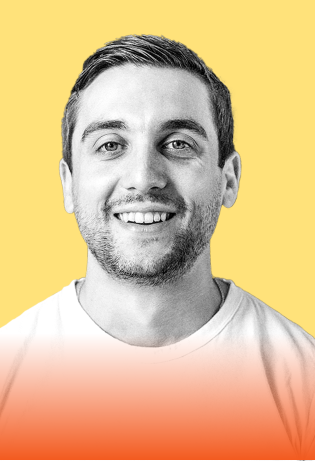
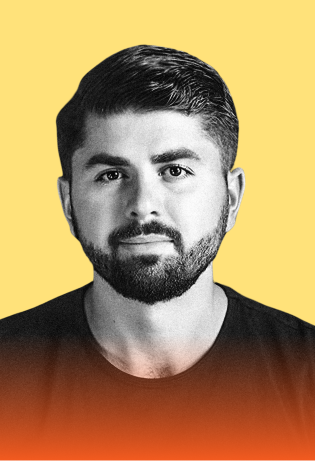
feat: 8 sessions with correct Figma content, pricing value table, newsletters proof section
- All 8 sessions with correct titles, descriptions, and matched thumbnails
- Correct session images from Figma exports
- Pricing section: value breakdown table, payment plan, founding member rate
- New "Our Newsletters — Proof" section between Instructors and Pricing
- Instructor headshots: square icon containers instead of circles
- Hero headshots: proper B&W with gradient backgrounds
- Session titles: regular weight serif, orange arrow on "You leave with"

diff --git a/src/App.tsx b/src/App.tsx
@@ -179,18 +179,20 @@ function RightForYou() {
 /* ─── Section 4: Sessions / What You'll Build ─── */
 function Sessions() {
   const sessions = [
-    { num: 1, img: 'session-1.png', title: 'Category Newsletter Positioning', desc: "Pick a category, name it, and claim it before you write a word. You'll nail the credibility angle that makes readers say 'this is exactly what I've been looking for.'", skill: 'Your newsletter name, subtitle, and a positioning statement that owns your niche.' },
-    { num: 2, img: 'session-2.png', title: 'Irresistible Newsletter Offer Stack', desc: "Every subscriber needs a reason to sign up and a reason to pay. The offer stack you build here gives them both: instant free bonuses, a paid upgrade path, and a subscriber value ladder that starts converting immediately.", skill: 'A complete free and paid offer stack live on your Substack.' },
-    { num: 3, img: 'session-3.png', title: 'Substack Tech Stack', desc: "Set up Substack for revenue from the start. Paid tiers, your About page, and the automated welcome sequence that turns every new free subscriber into a warm lead before your next post lands.", skill: 'A fully configured Substack, paid setup live, and your welcome sequence running automatically.' },
-    { num: 4, img: 'session-5.png', title: 'Newsletter Conversion Secrets', desc: "Free subscribers don't convert on their own. In this session, we'll give you the copywriting and paywall strategy that makes going paid feel like the obvious next move for your readers.", skill: 'A paywall strategy and paid subscriber plan ready before your first upgrade arrives.' },
-    { num: 5, img: 'session-7.png', title: 'Substack Notes Traffic Strategy', desc: "Notes is the fastest organic growth lever on Substack. Build a strategy that pulls new subscribers from Substack's own discovery feed every week.", skill: 'A Notes traffic strategy and a 30-day content calendar ready to publish.' },
-    { num: 6, img: 'session-6.png', title: 'Substack Monetization Mastery', desc: "Map every revenue lever your newsletter has: paid tiers, a founding member window, and product launches sold to a list you own. Then build a Claude Cowork .Skill trained on your writing so the newsletter that used to take 3 hours takes 45 minutes.", skill: 'A monetization plan and a custom AI writing tool trained on your voice.' },
+    { num: 1, img: 'session-1.png', title: 'Category Newsletter Positioning', desc: "The most important decision you'll make. Establish your credibility anchor, define your recurring offer, and nail your Category Title and Actionable Subtitle.", skill: 'Your newsletter name, positioning, and 1-liner — done.' },
+    { num: 2, img: 'session-2.png', title: 'Irresistible Newsletter Offer Stack', desc: "A newsletter isn't just content — it's an offer. Publishing cadences, Instant Bonus Unlocks, and your About Page written and published live.", skill: 'A fully written, live About Page and a subscriber offer stack that converts.' },
+    { num: 3, img: 'session-3.png', title: 'Writing Your Onboarding Sequence for Free Readers', desc: "A multi-email sequence that sells readers on your newsletter, introduces you, delivers any promised bonuses, and drives them toward your paid offer — written and live.", skill: 'An automated onboarding sequence running for every new free subscriber.' },
+    { num: 4, img: 'session-4.png', title: 'Creating a Bonus Educational Email Course for Paid Readers', desc: "The fastest way to reduce churn is to immediately reward the upgrade. A Paid Educational Email Course that makes paid subscribers feel like they made the right decision from Day 1.", skill: 'A live paid subscriber onboarding sequence that increases retention.' },
+    { num: 5, img: 'session-5.png', title: 'Newsletter Copywriting Secrets', desc: "The Cliffhanger Paywall, the Bonus Resource Paywall, and the free/paid cadence that maximizes reader engagement and paid conversion simultaneously.", skill: 'A repeatable content strategy for your ongoing newsletter.' },
+    { num: 6, img: 'session-6.png', title: 'Newsletter Writing With Claude Cowork', desc: "Build a newsletter writing .Skill inside Claude Cowork — trained on your voice, your style, and your newsletter's unique positioning. Write better, faster, without sounding like AI.", skill: 'A fully configured, personalized newsletter writing .Skill.' },
+    { num: 7, img: 'session-7.png', title: 'Building Your Notes Traffic Strategy', desc: "Substack Notes is the most underused growth lever on the platform. Trending formats, traffic strategies, and your first 30 days of Notes content — built and scheduled.", skill: 'A 30-day Notes content calendar and your traffic strategy mapped.' },
+    { num: 8, img: 'session-8.png', title: 'Substack Monetization Mastery', desc: "How free newsletters make money. What separates free from paid. How to price your subscription. Monthly vs. yearly vs. Founding Member — and the advanced strategies behind 6-figure newsletter launches.", skill: 'Your full monetization architecture configured and live.' },
   ]
 
   return (
     <section className="bg-cream py-20 px-6">
       <div className="max-w-page mx-auto">
-        <p className="font-sans text-[12px] font-bold text-orange uppercase tracking-[0.15em] mb-3">The 6 Sessions</p>
+        <p className="font-sans text-[12px] font-bold text-orange uppercase tracking-[0.15em] mb-3">The 8 Sessions</p>
         <h2 className="font-serif text-[clamp(30px,4vw,44px)] leading-[1.15] mb-3">
           Here's what you'll build.
         </h2>
@@ -201,15 +203,15 @@ function Sessions() {
         <div className="space-y-0 divide-y divide-black/10">
           {sessions.map((s) => (
             <div key={s.num} className="py-6 flex flex-col md:flex-row gap-4 md:gap-8">
-              <div className="md:w-[80px] flex-shrink-0">
-                <img src={`/images/${s.img}`} alt={`Session ${s.num}`} className="w-16 h-16 rounded-lg object-cover" />
+              <div className="md:w-[160px] flex-shrink-0">
+                <img src={`/images/${s.img}`} alt={`Session ${s.num}`} className="w-40 h-40 rounded-lg object-cover" />
               </div>
               <div className="flex-1">
                 <span className="font-sans text-[11px] font-bold text-orange uppercase tracking-wider">Session {s.num}</span>
-                <h3 className="font-serif text-[clamp(18px,2vw,22px)] font-bold leading-[1.3] mb-2">{s.title}</h3>
+                <h3 className="font-serif text-[clamp(18px,2vw,22px)] font-normal leading-[1.3] mb-2">{s.title}</h3>
                 <p className="font-sans text-[14px] text-black/60 leading-relaxed mb-2">{s.desc}</p>
                 <p className="font-sans text-[13px] text-black/50">
-                  <span className="text-green-700 font-semibold">+ You leave with:</span> {s.skill}
+                  <span className="text-orange font-semibold">→ You leave with:</span> {s.skill}
                 </p>
               </div>
             </div>
@@ -286,8 +288,8 @@ function Instructors() {
           {/* Nicolas Cole */}
           <div>
             <div className="flex items-center gap-4 mb-4">
-              <div className="w-16 h-16 rounded-full flex-shrink-0 overflow-hidden border-2 border-yellow">
-                <img src="/images/cole.png" alt="Nicolas Cole" className="w-full h-full object-cover object-top" />
+              <div className="w-16 h-16 flex-shrink-0 overflow-hidden rounded-lg">
+                <img src="/images/cole-headshot.png" alt="Nicolas Cole" className="w-full h-full object-cover" />
               </div>
               <div>
                 <h4 className="font-display text-[20px] font-bold uppercase tracking-wide">Nicolas Cole</h4>
@@ -312,8 +314,8 @@ function Instructors() {
           {/* Dickie Bush */}
           <div>
             <div className="flex items-center gap-4 mb-4">
-              <div className="w-16 h-16 rounded-full flex-shrink-0 overflow-hidden border-2 border-yellow">
-                <img src="/images/dickie.png" alt="Dickie Bush" className="w-full h-full object-cover object-top" />
+              <div className="w-16 h-16 flex-shrink-0 overflow-hidden rounded-lg">
+                <img src="/images/dickie-headshot.png" alt="Dickie Bush" className="w-full h-full object-cover" />
               </div>
               <div>
                 <h4 className="font-display text-[20px] font-bold uppercase tracking-wide">Dickie Bush</h4>
@@ -338,32 +340,115 @@ function Instructors() {
   )
 }
 
-/* ─── Section 7: Pricing ─── */
+/* ─── Section 7: Newsletters Proof ─── */
+function NewslettersProof() {
+  const newsletters = [
+    {
+      name: 'Category Pirates',
+      desc: 'The leading newsletter on Category Design',
+      stats: ['Top 10 Business Newsletter on Substack', '30,000+ free subscribers', '$150,000+/yr in paid subscriptions'],
+    },
+    {
+      name: 'Write With AI',
+      desc: 'The leading newsletter on Writing With AI',
+      stats: ['Top 5 Education Newsletter on Substack', '50,000+ free subscribers', '$300,000+/yr in paid subscriptions'],
+    },
+    {
+      name: 'Start Writing Online',
+      desc: 'The leading newsletter on how to Start Writing Online',
+      stats: ['100,000+ free subscribers', 'The engine of Ship 30 for 30'],
+    },
+    {
+      name: 'Start Ghostwriting',
+      desc: 'The leading newsletter on how to Start Ghostwriting',
+      stats: ['100,000+ free subscribers', 'The engine of Premium Ghostwriting Academy, an 8-figure business'],
+    },
+  ]
+
+  return (
+    <section className="bg-yellow py-20 px-6">
+      <div className="max-w-page mx-auto">
+        <h2 className="font-serif text-[clamp(28px,3.5vw,40px)] leading-[1.15] mb-12 text-center">
+          Our Newsletters—Proof We Know<br />What We're Talking About
+        </h2>
+
+        <div className="grid grid-cols-1 md:grid-cols-2 gap-8">
+          {newsletters.map((nl) => (
+            <div key={nl.name} className="border-t-2 border-black pt-4">
+              <h4 className="font-sans text-[18px] font-bold mb-1">{nl.name}</h4>
+              <p className="font-sans text-[13px] text-black/60 mb-3">{nl.desc}</p>
+              <ul className="list-disc list-inside space-y-1">
+                {nl.stats.map((s, i) => (
+                  <li key={i} className="font-sans text-[13px] text-black/80">{s}</li>
+                ))}
+              </ul>
+            </div>
+          ))}
+        </div>
+
+        <p className="font-serif text-[16px] italic text-black/70 mt-12">
+          Created by the founders of Ship 30 for 30,<br />
+          Premium Ghostwriting Academy,<br />
+          Typeshare, Write With AI, and more.
+        </p>
+      </div>
+    </section>
+  )
+}
+
+/* ─── Section 8: Pricing ─── */
 function Pricing({ ctaUrl }: { ctaUrl: string }) {
+  const valueItems = [
+    { name: '8 Live Sessions with Dickie Bush & Nicolas Cole', price: '$800' },
+    { name: 'Session Replays + Slide Decks', price: '$200' },
+    { name: 'Substack Templates Pack', price: '$99' },
+    { name: 'Newsletter Writing .Skill', price: '$150' },
+    { name: 'Notes Traffic .Skill', price: '$150' },
+    { name: 'BONUS: Big Substack FAQ File', price: '$99' },
+    { name: 'BONUS: Design Secrets', price: '$149' },
+    { name: 'BONUS: Substack Notes Swipe File', price: '$99' },
+    { name: 'BONUS: Substack Sequence Writer', price: '$99' },
+  ]
+
   return (
     <section className="bg-yellow py-20 px-6">
       <div className="max-w-page mx-auto text-center">
-        <h2 className="font-serif text-[clamp(30px,4vw,44px)] leading-[1.15] mb-3">
-          Join the Bootcamp
+        <p className="font-sans text-[12px] font-bold text-orange uppercase tracking-[0.15em] mb-4">Join the Bootcamp</p>
+        <h2 className="font-serif text-[clamp(30px,4vw,44px)] leading-[1.15] mb-4">
+          This isn't self-paced content<br />you buy and forget.
         </h2>
-        <p className="font-sans text-[16px] text-black/70 mb-2">
-          This isn't self-paced content you buy and forget.
-        </p>
         <p className="font-sans text-[16px] text-black/70 mb-10">
-          We build together. You show up, you do the work, you leave<br />with a system and the replay recordings forever.
+          We <span className="underline decoration-orange">build together</span>. You <span className="underline decoration-orange">show up</span>, you <span className="underline decoration-orange">do the work</span>, you <span className="underline decoration-orange">leave<br />with a system</span> and the replay recordings forever.
         </p>
 
-        <div className="inline-block bg-white rounded-xl shadow-lg p-10 mb-6">
+        {/* Value breakdown table */}
+        <div className="inline-block bg-white rounded-xl shadow-lg px-8 py-6 mb-10 text-left">
+          {valueItems.map((item, i) => (
+            <div key={i} className={`flex justify-between items-center py-2.5 gap-12 ${i < valueItems.length - 1 ? 'border-b border-black/10' : 'border-b border-black/10'}`}>
+              <span className="font-sans text-[13px] text-black/80">{item.name}</span>
+              <span className="font-sans text-[13px] text-black/60 flex-shrink-0">{item.price}</span>
+            </div>
+          ))}
+          <div className="flex justify-between items-center pt-3">
+            <span className="font-sans text-[13px] font-bold">Total Value</span>
+            <span className="font-serif text-[24px] font-bold">$1,845</span>
+          </div>
+        </div>
+
+        {/* Price */}
+        <div className="mb-6">
           <p className="font-sans text-[12px] font-bold text-black/50 uppercase tracking-wider mb-2">Your Price</p>
-          <p className="font-serif text-[clamp(48px,8vw,72px)] font-bold leading-none mb-4">$800</p>
-          <a href={ctaUrl} className="inline-block bg-orange text-white font-sans text-[15px] font-bold uppercase tracking-[0.08em] px-12 py-4 rounded-lg hover:bg-orange/90 transition w-full">
-            Join the Bootcamp →
+          <p className="font-serif text-[clamp(48px,8vw,72px)] font-bold leading-none mb-3">$800</p>
+          <p className="font-sans text-[13px] text-black/60 mb-1">Or <span className="font-bold">2 payments of $420</span></p>
+          <p className="font-sans text-[13px] text-black/60 mb-6">Founding member / prior bootcamp rate: <span className="font-bold">$600</span></p>
+          <a href={ctaUrl} className="inline-block bg-orange text-white font-sans text-[15px] font-bold uppercase tracking-[0.08em] px-16 py-4 rounded-lg hover:bg-orange/90 transition">
+            Join the Substack Starter Sprint
           </a>
         </div>
 
         <div className="max-w-[400px] mx-auto">
           <p className="font-sans text-[12px] text-black/40 mt-4">
-            6 live sessions · Cart opens March 9 · Cart closes March 15 · Kickoff Monday March 16 · Limited seats
+            Cart opens March 9 · Cart closes March 15 ·<br />Kickoff Monday March 16 · Limited seats
           </p>
         </div>
       </div>
@@ -482,6 +567,7 @@ export default function App({ withFbPixel = false, ctaUrl = DEFAULT_CTA_URL }: {
       <FadeIn><Sessions /></FadeIn>
       <FadeIn><Bonuses /></FadeIn>
       <FadeIn><Instructors /></FadeIn>
+      <FadeIn><NewslettersProof /></FadeIn>
       <FadeIn><Pricing ctaUrl={ctaUrl} /></FadeIn>
       <FadeIn><ReadyToBuild ctaUrl={ctaUrl} /></FadeIn>
       <FadeIn><FAQ /></FadeIn>
